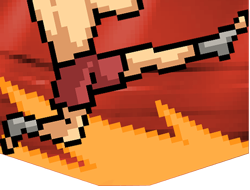
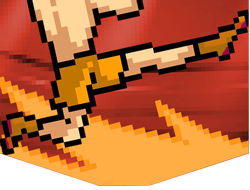
tweat art for Wind-Up Kick; pitch variation for Hairpull SFX

Changed region(s): [[0.196, 0.2895, 0.504, 0.5789], [0.784, 0.0789, 1.0, 0.3158], [0.0, 0.6053, 0.168, 0.7895]]

diff --git a/src/main/java/thewrestler/cards/attack/HairPull.java b/src/main/java/thewrestler/cards/attack/HairPull.java
@@ -4,6 +4,7 @@ import basemod.abstracts.CustomCard;
 import com.megacrit.cardcrawl.actions.AbstractGameAction;
 import com.megacrit.cardcrawl.actions.common.DamageAction;
 import com.megacrit.cardcrawl.actions.common.GainEnergyAction;
+import com.megacrit.cardcrawl.actions.utility.SFXAction;
 import com.megacrit.cardcrawl.cards.AbstractCard;
 import com.megacrit.cardcrawl.cards.DamageInfo;
 import com.megacrit.cardcrawl.characters.AbstractPlayer;
@@ -48,8 +49,8 @@ public class HairPull extends CustomCard {
             AbstractGameAction.AttackEffect.BLUNT_LIGHT));
 
     if (GrappledPower.enemyWillHaveGrappleAfterAttack(m)) {
-      CardCrawlGame.sound.play("YELL_PAIN_1");
       AbstractDungeon.actionManager.addToBottom(new GainEnergyAction(ENERGY_PER_TRIGGER));
+      AbstractDungeon.actionManager.addToTop(new SFXAction("YELL_PAIN_1", 0.95f));
     }
   }
 

diff --git a/src/main/java/thewrestler/cards/attack/WindUpKick.java b/src/main/java/thewrestler/cards/attack/WindUpKick.java
@@ -50,7 +50,7 @@ public class WindUpKick extends CustomCard {
   public boolean canPlay(AbstractCard card) {
     if (card == this) {
       card.cantUseMessage = getCanPlayMessage();
-      return getNumSkillsPlayed() > 2;
+      return getNumSkillsPlayed() >=  this.magicNumber;
     } else {
       return true;
     }
